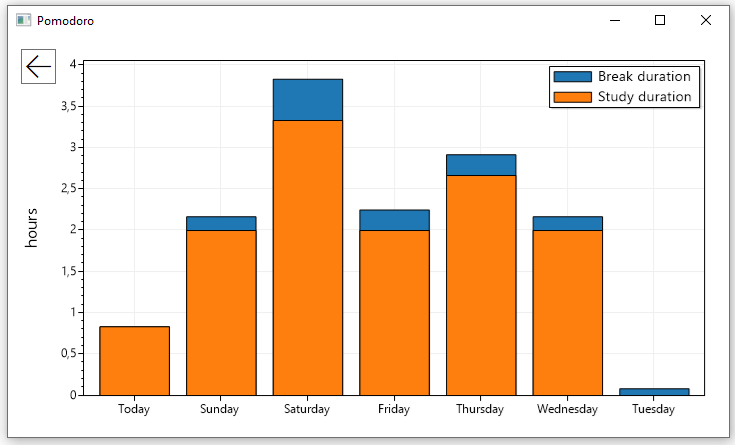
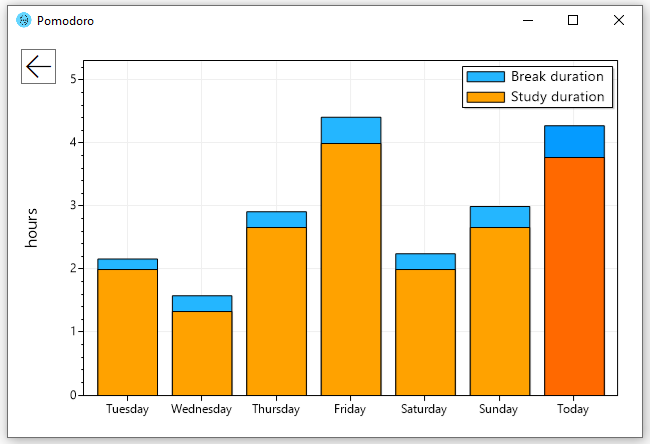
UI updates

diff --git a/src/Models/StatsModel.cs b/src/Models/StatsModel.cs
@@ -1,9 +1,9 @@
 #undef POPULATE_DATABASE
 
-using Pomodoro.DB;
 using ScottPlot;
 using System;
 using System.Collections.Generic;
+using System.Drawing;
 using System.Linq;
 
 namespace Pomodoro.Models
@@ -65,10 +65,6 @@ namespace Pomodoro.Models
             var data = DBAccess.LoadPeriodEntries(DateTime.Now.AddDays(-7));
             var st = data.GetStatistics();
 
-            // Ensure that current day is encluded in the last 7 days view
-            if (!st.Any(s => s.Date.Date.Equals(DateTime.UtcNow.Date)))
-                st = st.Concat(new[] { new DayStatistic() { Date = DateTime.UtcNow.Date }});
-
             GenerateBarPlot(PlotControl.plt, st);
             PlotControl.UpdateLayout();
         }
@@ -80,35 +76,50 @@ namespace Pomodoro.Models
         /// <param name="statistics">The data to use</param>
         private void GenerateBarPlot(Plot plt, IEnumerable<DayStatistic> statistics)
         {
-            var latest = statistics.Max(s => s.Date);
-
             // Order list such that last day of records is at the start
-            var sorted = statistics.OrderByDescending(s => s.Date);
+            var sorted = statistics
+                .OrderBy(s => s.Date)
+                .Where(s => !s.Date.Date.Equals(DateTime.UtcNow.Date));
 
-            // Calculate the day span of the statistics
-            var day_count = latest.Subtract(statistics.Min(s => s.Date)).Days + 1;
-            double[] days = Enumerable.Range(1, day_count).Select(i => (double)i).ToArray();
-            double[] studyDurations = new double[day_count];
-            double[] breakDurations = new double[day_count];
+            // Handle 'today' differently; even if no data exists yet, it should still be displayed
+            var todaysData = statistics.Where(s => s.Date.Date == DateTime.UtcNow.Date).FirstOrDefault() 
+                ?? new DayStatistic() { Date = DateTime.UtcNow.Date };
 
-            foreach (var s in sorted)
+            int dayCount = 0;
+            if (sorted.Count() > 0)
             {
-                studyDurations[latest.Date.Subtract(s.Date).Days] = s.StudyDuration;
-                breakDurations[latest.Date.Subtract(s.Date).Days] = s.BreakDuration + s.StudyDuration;
+                // Determine the latest date (besides 'today')
+                var latest = sorted.Last().Date;
+
+                // Calculate the day span of the statistics
+                dayCount = latest.Subtract(statistics.Min(s => s.Date)).Days + 1;
+                double[] days = Enumerable.Range(1, dayCount).Select(i => (double)i).ToArray();
+                double[] studyDurations = new double[dayCount];
+                double[] breakDurations = new double[dayCount];
+
+                foreach (var s in sorted)
+                {
+                    studyDurations[latest.Date.Subtract(s.Date).Days] = s.StudyDuration;
+                    breakDurations[latest.Date.Subtract(s.Date).Days] = s.BreakDuration + s.StudyDuration;
+                }
+
+                plt.PlotBar(days, breakDurations, label: "Break duration", fillColor: Color.FromArgb(36, 182, 255));
+                plt.PlotBar(days, studyDurations, label: "Study duration", fillColor: Color.FromArgb(255, 162, 0));
             }
 
-            plt.PlotBar(days, breakDurations, label: "Break duration");
-            plt.PlotBar(days, studyDurations, label: "Study duration");
+            plt.PlotBar(new[] { dayCount + 1.0 }, new[] { todaysData.BreakDuration + todaysData.StudyDuration }, fillColor: Color.FromArgb(5, 155, 255));
+            plt.PlotBar(new[] { dayCount + 1.0 }, new[] { todaysData.StudyDuration }, fillColor: Color.FromArgb(255, 105, 0));
 
-            // Set minimum to 0
-            plt.Axis(y1: 0);
+            var maxDuration = statistics.Count() > 0 ? statistics.Max(s => s.StudyDuration + s.BreakDuration) : 0;
+            // Set minimum and maximum (otherwise plot looks ugly if only a few minutes of data exist)
+            plt.Axis(y1: 0, y2: Math.Max(4, maxDuration * 1.2));
 
-            // tick '0' should not have a day
-            var lastDayNames = new[] { "" }.Concat(sorted.Select(s => s.Date.Date.DayOfWeek.ToString())).ToArray();
-            lastDayNames[1] = "Today";
-            plt.XTicks(lastDayNames);
+            // We also have to provide a label for x=0
+            var dayNames = new List<string> { "", "Today" };
+            dayNames.InsertRange(1, sorted.Select(s => s.Date.Date.DayOfWeek.ToString()));
+
+            plt.XTicks(dayNames.ToArray());
             plt.YLabel("hours");
-
             plt.Legend(location: legendLocation.upperRight);
         }
 

diff --git a/src/Models/PomodoroService.cs b/src/Models/PomodoroService.cs
@@ -218,15 +218,13 @@ namespace Pomodoro.Models
         /// <param name="isBreakPeriod">Whether break or study period is over</param>
         public void NotifyPeriodOver(bool isBreakPeriod)
         {
-            System.Diagnostics.Debug.WriteLine($"Period over! Is break period? {isBreakPeriod}");
-
             // As the ticker is not using the UI thread but we would like to access some UI properties,
             // we need to dispatch our actions to them
             App.Current.Dispatcher.Invoke(() =>
             {
                 _notificationMngr.Show(
                     title: App.Current.MainWindow.Title,
-                    message: isBreakPeriod ? "Take a break!" : "Study!",
+                    message: isBreakPeriod ? "Well, done, take a break!" : "Break is over, time to study!",
                     type: Notification.Wpf.NotificationType.Information,
                     expirationTime: TimeSpan.FromMilliseconds(ToolTipTimeout)
                     );
@@ -238,8 +236,6 @@ namespace Pomodoro.Models
         /// </summary>
         public void LogStatus()
         {
-            System.Diagnostics.Debug.WriteLine(Status);
-
             var timeDifference = _periodStartTime == default ? 0 : DateTime.UtcNow.Subtract(_periodStartTime).TotalSeconds;
             
             // Remove milliseconds as this is useless information for us

diff --git a/src/Models/Status.cs b/src/Models/Status.cs
@@ -87,7 +87,7 @@ namespace Pomodoro.Models
         {
             // Ensure that timer was already initialized
             if (timer != null)
-                return $"{Math.Max(0, timer.Minutes):D2}:{Math.Max(0, timer.Seconds):D2}";
+                return $"{Math.Max(0, (int)timer.TotalMinutes):D2}:{Math.Max(0, timer.Seconds):D2}";
             return "00:00";
         }
 
